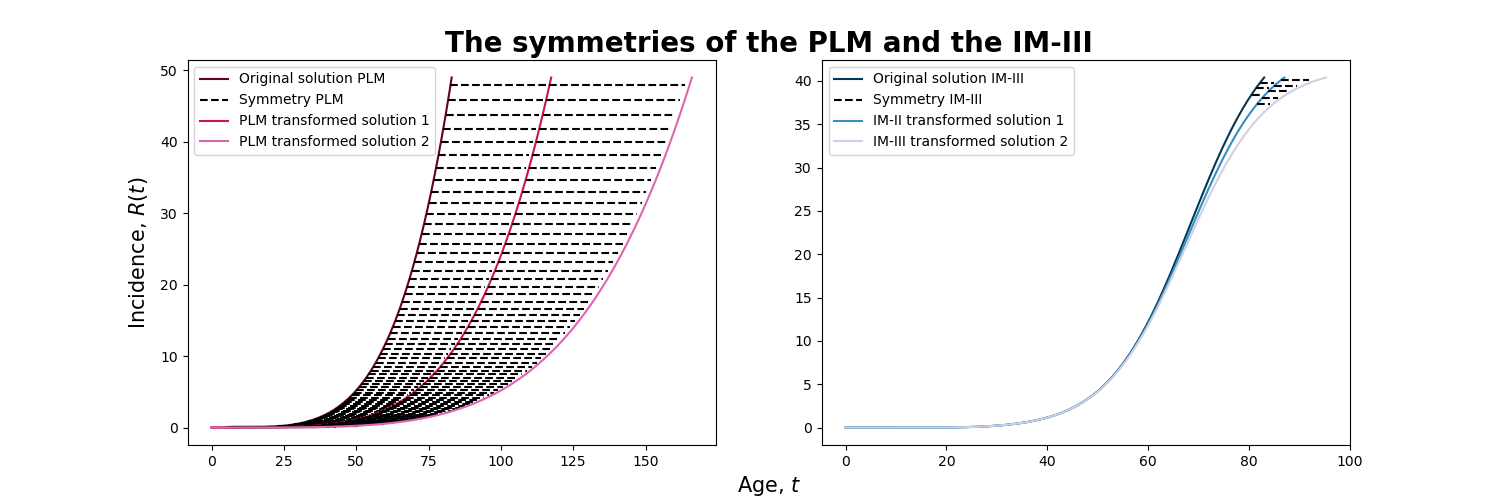
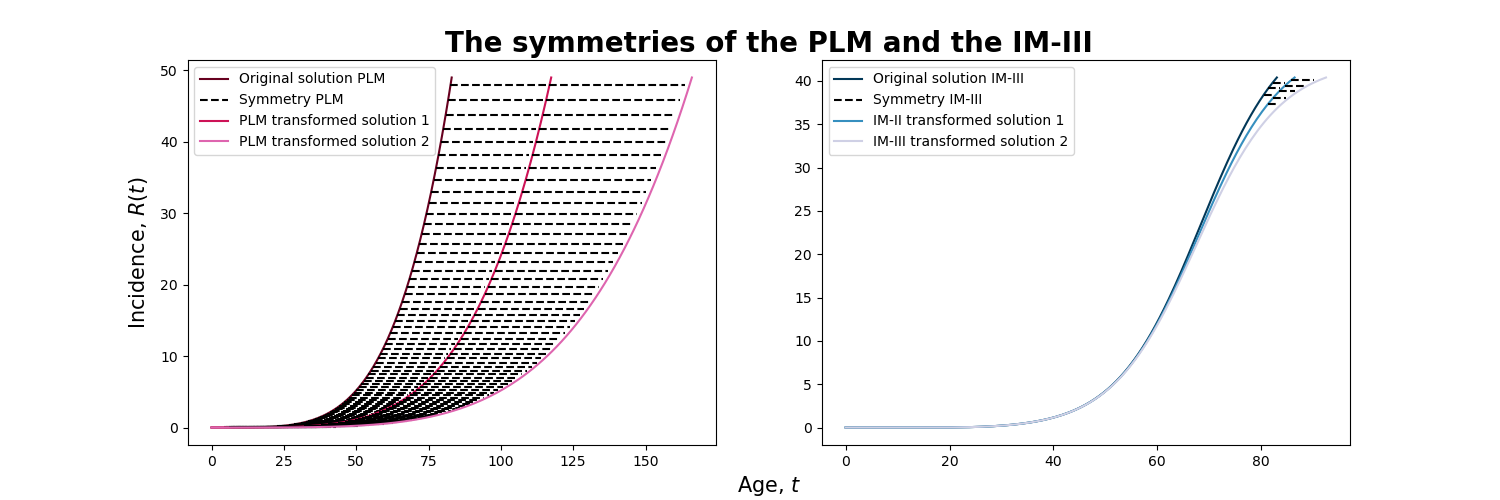
Fix it all

diff --git a/Code/symmetry_analysis_PLM_vs_IM_III.py b/Code/symmetry_analysis_PLM_vs_IM_III.py
@@ -326,12 +326,12 @@ print("\n\t---------------------------------------------------------------------
 print("\n\t\tThe symmetry based framework for model selection\n")
 print("\n\t--------------------------------------------------------------------------------------\n")
 print("\t\tThe scales for the framework are the following:")
-print("\t\t\tPLM\tAll datasets:\t epsilon_scale\t=\t%0.3f"%(3*epsilon_scale_PLM))
-print("\t\t\tIM-III\t myeloma:\t epsilon_scale\t=\t%0.3f"%(0.6795*epsilon_scale_IM_III_myeloma))
-print("\t\t\tIM-III\t colon:\t epsilon_scale\t=\t%0.3f"%(0.89*epsilon_scale_IM_III_colon))
-print("\t\t\tIM-III\t CML:\t epsilon_scale\t=\t%0.3f\n\n"%(0.8286*epsilon_scale_IM_III_CML))
+print("\t\t\tPLM\tAll datasets:\t epsilon_scale\t=\t%0.12f"%(30*epsilon_scale_PLM))
+print("\t\t\tIM-III\t myeloma:\t epsilon_scale\t=\t%0.12f"%(0.6795*epsilon_scale_IM_III_myeloma))
+print("\t\t\tIM-III\t colon:\t epsilon_scale\t=\t%0.12f"%(0.89*epsilon_scale_IM_III_colon))
+print("\t\t\tIM-III\t CML:\t epsilon_scale\t=\t%0.12f\n\n"%(0.8286*epsilon_scale_IM_III_CML))
 # Allocate four epsilon vectors with transformation parameters
-epsilon_vector_PLM = np.linspace(0.0,3*epsilon_scale_PLM,num=100,endpoint=True)
+epsilon_vector_PLM = np.linspace(0.0,30*epsilon_scale_PLM,num=100,endpoint=True)
 epsilon_vector_IM_III_myeloma = np.linspace(0.0,0.6795*epsilon_scale_IM_III_myeloma,num=100,endpoint=True)
 epsilon_vector_IM_III_colon = np.linspace(0.0,0.89*epsilon_scale_IM_III_colon,num=100,endpoint=True)
 epsilon_vector_IM_III_CML = np.linspace(0.0,0.8286*epsilon_scale_IM_III_CML,num=100,endpoint=True)
